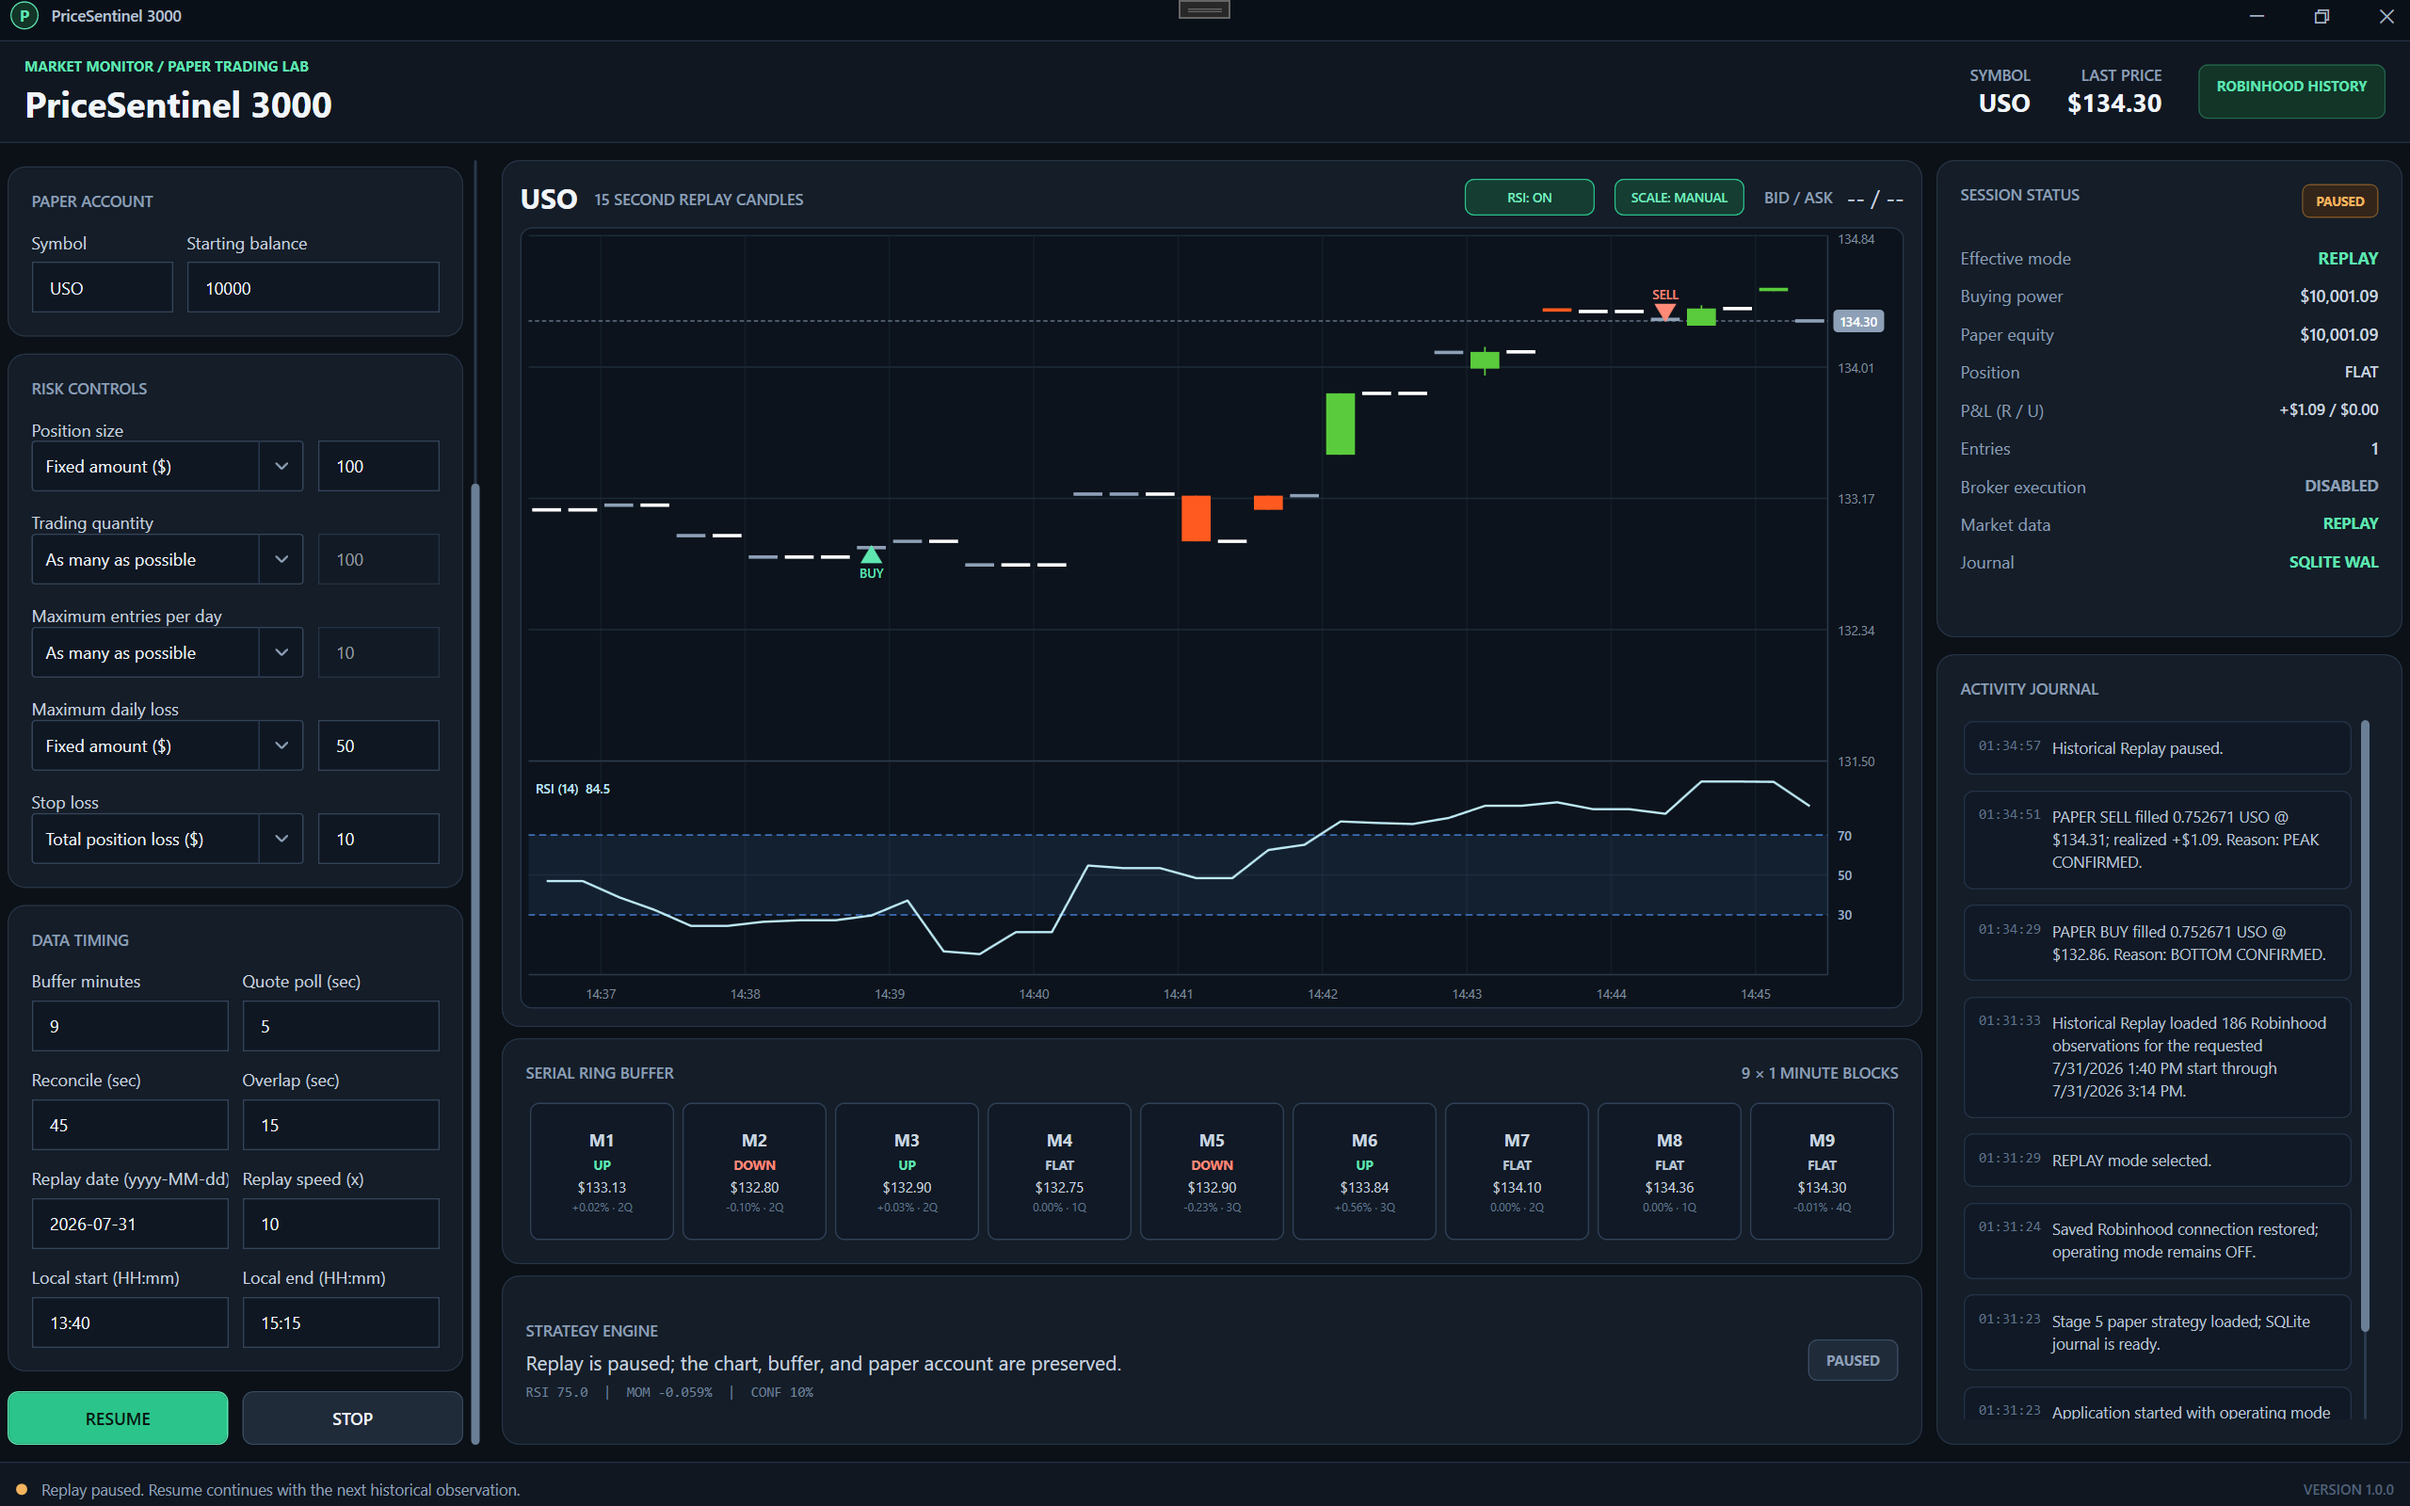
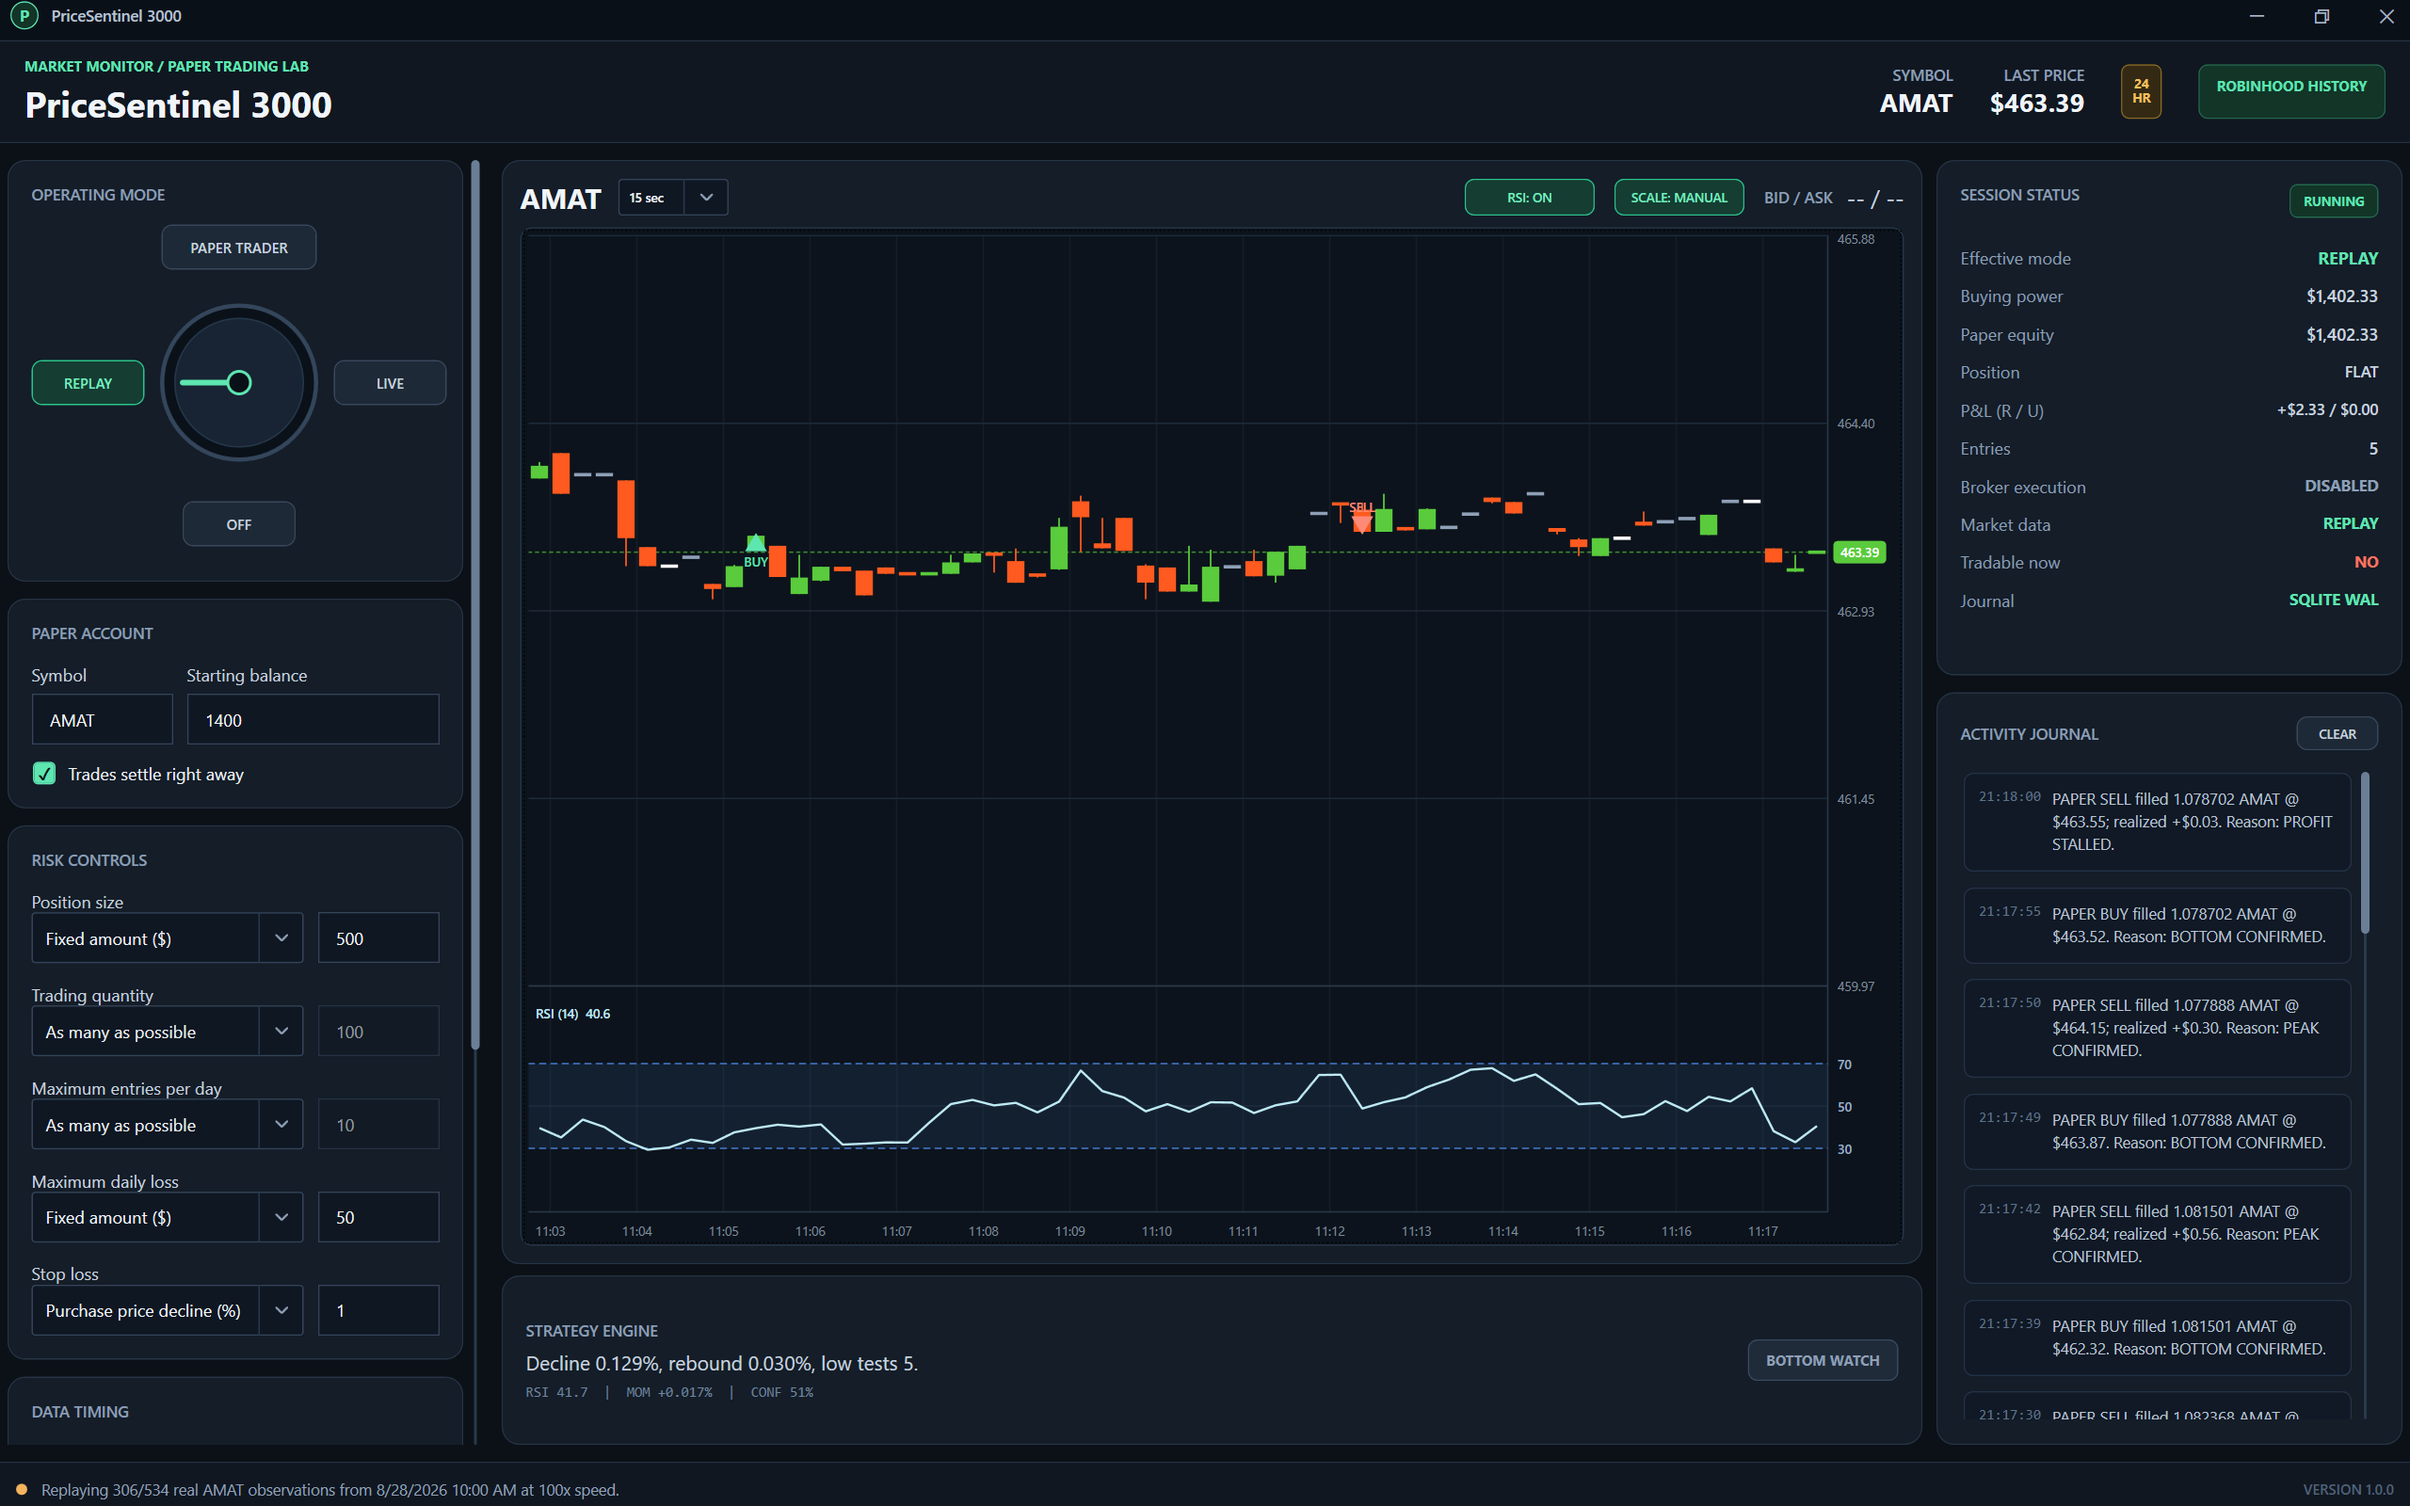
Refresh README and showcase screenshot

diff --git a/README.md b/README.md
@@ -6,7 +6,7 @@ A Windows desktop application that connects to Robinhood Agentic Trading for
 real-time price monitoring, historical playback, paper-first strategy research,
 and guarded live execution of a user-selected stock or ETF.
 
-![PriceSentinel 3000 showing a paused historical Replay with candlesticks, RSI, trade markers, risk controls, and an activity journal](docs/images/pricesentinel3000-replay.png)
+![PriceSentinel 3000 showing a running historical Replay with candlesticks, RSI, trade markers, risk controls, and an activity journal](docs/images/pricesentinel3000-replay.png)
 
 *Historical Replay mode using Robinhood price history and simulated paper fills.*
 
@@ -31,10 +31,6 @@ credentials. For a quick code review:
 5. Review the WPF `Views`, `Styles`, and `Themes` folders for the modular desktop
    presentation, then run the three boundary-specific test projects for executable
    safety examples.
-
-The screenshot above is from an earlier build and still shows the retired buffer
-summary. The current layout gives that vertical space to the chart. Planned work
-is tracked in the [roadmap](TODO.md).
 
 > [!WARNING]
 > This project is experimental software, not financial advice. Trading involves
@@ -91,9 +87,11 @@ execution path to the authenticated Robinhood data foundation:
 - LIVE enters disarmed, then **Start Live Trader** reconciles the agentic account,
   buying power, position, symbol tradability, existing orders, daily loss baseline,
   and daily entry count before it can arm
-- Every LIVE intent is reviewed by Robinhood; missing/malformed review data, any
-  non-empty broker alert, stale prices, excessive review-price drift, ambiguous
-  acknowledgements, and duplicate/open orders fail closed
+- A LIVE strategy decision must first pass local risk, arming, regular-hours,
+  tradability, and fractional-share gates before its order intent reaches
+  Robinhood review; missing/malformed review data, any non-empty broker alert,
+  stale prices, excessive review-price drift, ambiguous acknowledgements, and
+  duplicate/open orders fail closed
 - LIVE uses regular-hours GFD market orders with a stable idempotency reference;
   STOP disarms immediately, requests cancellation, and briefly polls the broker
   because cancellation is asynchronous; closing the app with unresolved order
@@ -152,8 +150,10 @@ and
    silently restore the encrypted saved session and open the workspace directly.
 2. Select **Paper Trader**, enter a stock or ETF symbol and paper starting balance,
    configure the risk and timing settings, then click **Start Paper Trader**.
-3. The app loads up to four minutes of real 15-second history, obtains the current
-   quote, and then polls the current quote at the configured interval.
+3. When available, the app requests 33–43 minutes of real 15-second warm-start
+   history: the configured 5–15 minute buffer plus 28 minutes needed to warm
+   RSI(14) for the longest selectable candle interval. It then obtains the current
+   quote and polls it at the configured interval.
 4. At each reconciliation interval, the app requests the configured lookback
    window ending behind real time by the completion delay. This avoids treating a
    still-forming historical bar as final. Matching timestamps are verified,
@@ -177,9 +177,11 @@ is unavailable, the session stops and reports the failure.
    fetches the account from Robinhood instead of using the paper starting balance.
 4. LIVE arms only after account, balance, buying power, tradability, position,
    open-order, daily-entry, and daily-loss reconciliation succeeds.
-5. A strategy signal creates an intent. Robinhood reviews the exact order first;
-   the app records and displays the market-data disclosure and blocks every
-   non-empty pre-trade alert before placement.
+5. A strategy signal must pass the app's local risk gates before it can create an
+   intent. That intent must also pass arming, regular-hours, tradability, and
+   fractional-share gates before Robinhood reviews the exact order. The app records
+   and displays the market-data disclosure and blocks every non-empty pre-trade
+   alert before placement.
 6. After submission, the app polls the broker order, blocks duplicate signals,
    records state transitions and fills, and refreshes the authoritative position.
 7. **STOP** disarms the session and requests cancellation of a PriceSentinel order.
@@ -216,7 +218,7 @@ them later; they are not a promise that the labeled regions can be captured live
    local date (`yyyy-MM-dd`), local start/end times (`HH:mm`), and playback
    speed, then click **Start Replay**.
 2. One bounded request loads actual 15-second Robinhood bars for precisely that
-   start/end window, using extended-hours bounds.
+   start/end window, using Robinhood's `24_5` historical bounds.
 3. The returned observations are replayed in source-time order. Each historical
    price enters the normal ring buffer as a newly observed event, with delays
    compressed by the selected speed.
@@ -240,10 +242,11 @@ browser is open, the disabled LOGIN button reads
 **WAITING FOR APPROVAL**; EXIT cancels the attempt. If authorization times out,
 LOGIN becomes available for a clean retry.
 
-At startup, a saved token is tried without permitting an interactive browser
-redirect. A valid access token or refresh token opens the main window directly.
-If the cache is missing, invalid, revoked, corrupt, or cannot be verified, the
-welcome dialog appears and offers LOGIN or EXIT.
+At startup, a cached access token and dynamic client registration are tried without
+permitting an interactive browser redirect. When present, a cached refresh token
+can assist that reconnection. A verified cached connection opens the main window
+directly. If the cache is missing, invalid, revoked, corrupt, or cannot be verified,
+the welcome dialog appears and offers LOGIN or EXIT.
 
 The OAuth client cache format was updated with the MCP C# SDK 2.0 migration. The
 first run after upgrading re-registers PriceSentinel once; this does not modify
